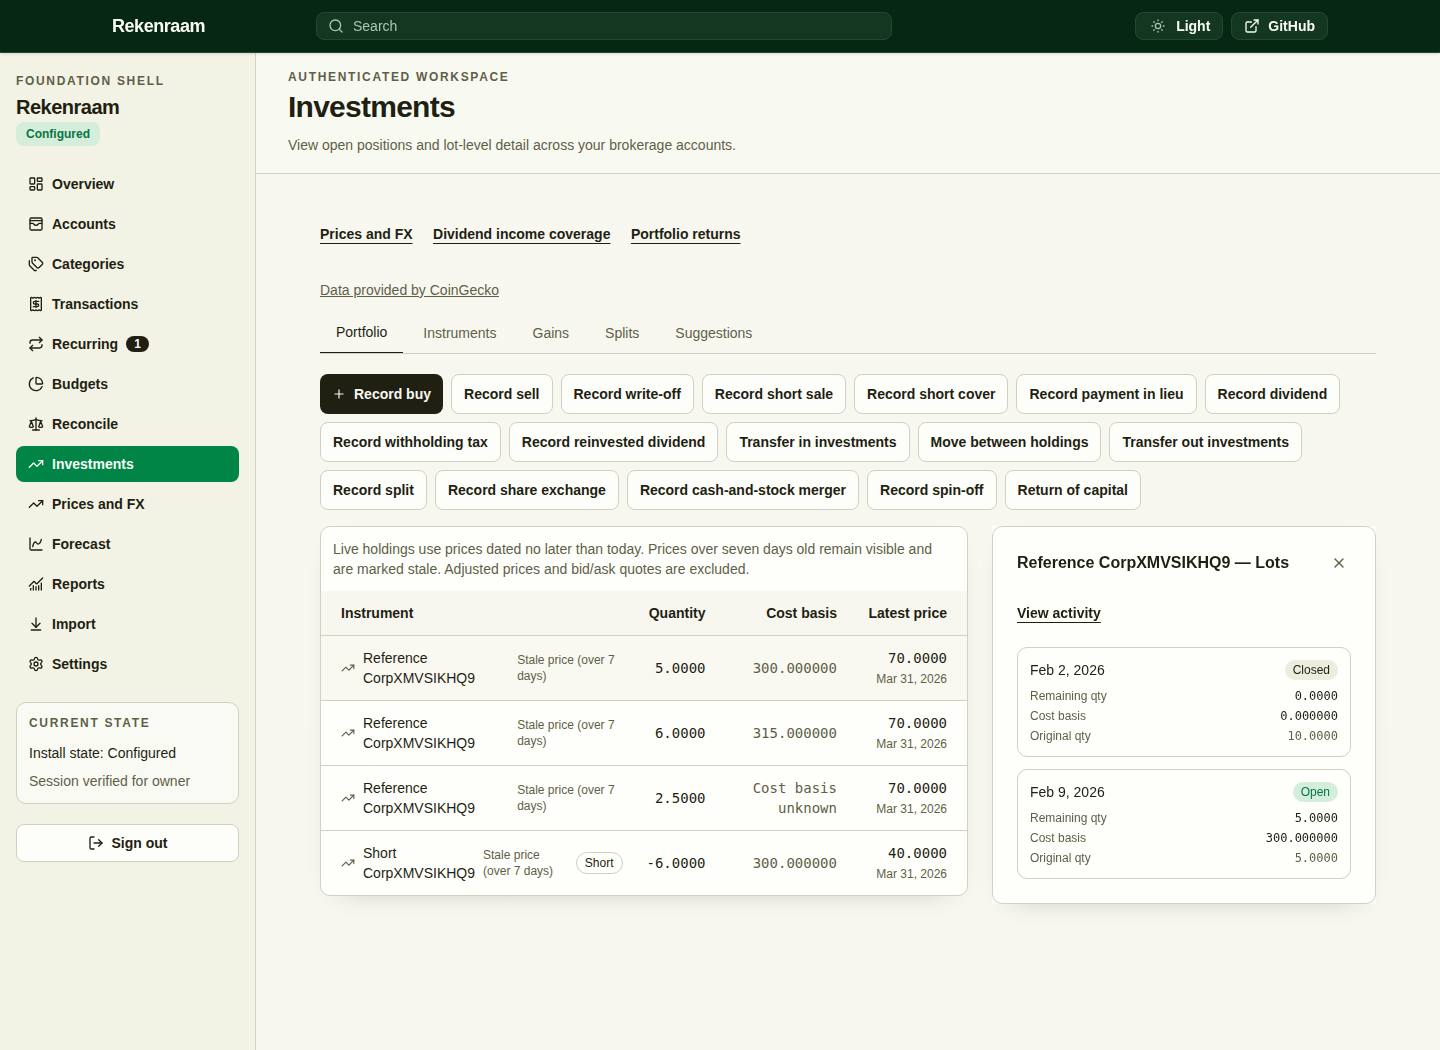
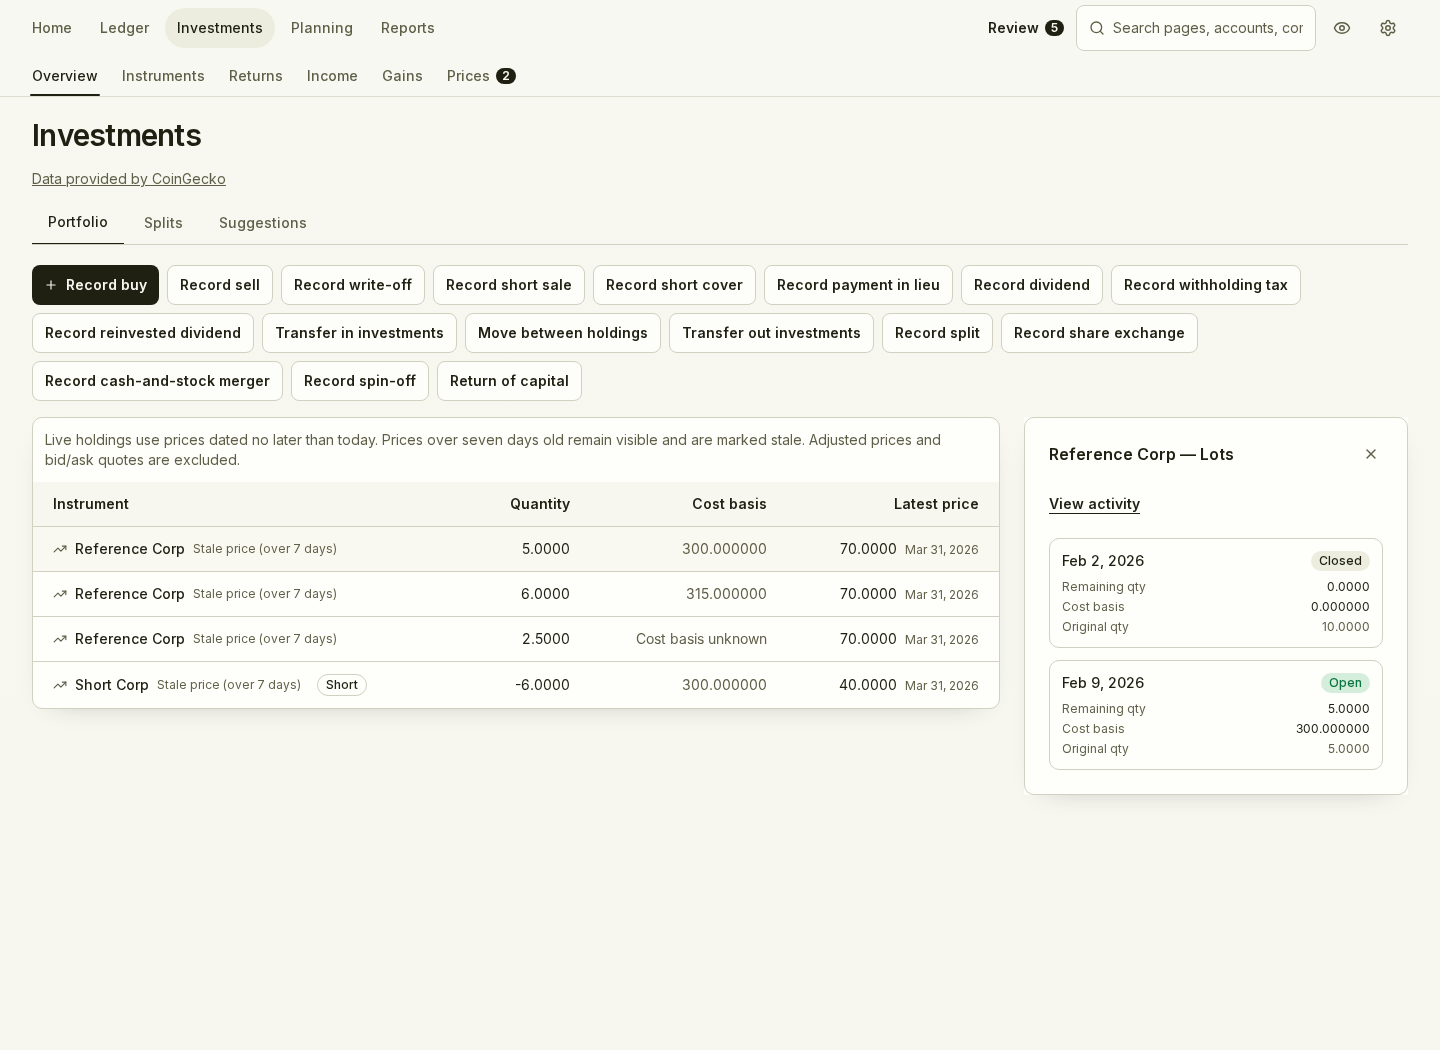
docs: refresh product screenshots
Recapture the spending report, transaction register and investment positions from the synthetic reference book so the README and website show the current navigation and layout. Extend the capture generator to write all three images, and keep disposable capture names free of the shared-run suffix.

diff --git a/e2e/website-screenshots.spec.ts b/e2e/website-screenshots.spec.ts
@@ -22,22 +22,41 @@ test('capture website screens from a disposable synthetic book', async ({ browse
     });
     try {
       const page = await context.newPage();
-      const seeded = await seedReferenceBook(page);
+      // A disposable book needs no collision suffix, so fixture names stay clean.
+      const seeded = await seedReferenceBook(page, '');
+      const reportRange = 'start_date=2026-01-01&end_date=2026-03-31';
       const captures = [
-        { route: `/app/transactions?account_id=${seeded.ids.get('checking')}`, name: 'transactions', heading: 'Transactions' },
-        { route: '/app/investments', name: 'investments', heading: 'Investments' }
+        {
+          route: `/app/reports/spending?${reportRange}&group_by=category`,
+          file: 'docs/images/reports-spending.png',
+          heading: 'Spending',
+          panel: 'Where money went'
+        },
+        {
+          route: `/app/transactions?account_id=${seeded.ids.get('checking')}`,
+          file: 'website/assets/transactions.png',
+          heading: 'Transactions'
+        },
+        {
+          route: '/app/investments',
+          file: 'website/assets/investments.png',
+          heading: 'Investments'
+        }
       ];
-      for (const { route, name, heading } of captures) {
+      for (const { route, file, heading, panel } of captures) {
         await page.goto(route);
         await expect(page.getByRole('heading', { name: heading, exact: true }).first()).toBeVisible();
+        if (panel) {
+          await expect(page.getByRole('heading', { name: panel, exact: true })).toBeVisible();
+        }
         await expect(page.getByRole('table').first().locator('tbody tr').first()).toBeVisible();
-        if (name === 'investments') {
+        if (file.endsWith('/investments.png')) {
           await page.getByRole('table').first().locator('tbody tr').first().click();
           await expect(page.getByRole('complementary', { name: 'Lot detail' })).toContainText('Cost basis');
         }
         await page.evaluate(() => document.fonts.ready);
         await page.screenshot({
-          path: join(repoRoot, 'website/assets', `${name}.png`),
+          path: join(repoRoot, file),
           animations: 'disabled'
         });
       }
@@ -47,7 +66,7 @@ test('capture website screens from a disposable synthetic book', async ({ browse
         fixture: 'fixtures/reference-book.json',
         language: 'en',
         viewport: { width: 1440, height: 1050 },
-        files: captures.map(({ name, route }) => ({ file: `${name}.png`, route })),
+        files: captures.map(({ file, route }) => ({ file, route })),
         note: 'Disposable database; synthetic reference book; no live providers or owner records.'
       }, null, 2) + '\n');
     } finally {

diff --git a/e2e/playwright/support/reference-book.ts b/e2e/playwright/support/reference-book.ts
@@ -102,12 +102,14 @@ async function call<T>(page: Page, method: string, path: string, body: unknown, 
 
 /**
  * Seeds the reference book into the signed-in browser's book. EUR and USD are
- * added when missing; system accounts come from the ledger setup.
+ * added when missing; system accounts come from the ledger setup. The shared
+ * e2e database needs a per-run suffix; a disposable capture book can pass `''`
+ * so its screenshots show the fixture's own names.
  */
-export async function seedReferenceBook(page: Page): Promise<SeededReferenceBook> {
+export async function seedReferenceBook(page: Page, runSuffix?: string): Promise<SeededReferenceBook> {
   const book = await loadReferenceBook();
   const { csrfToken } = await readyForLedger(page);
-  const suffix = `X${Date.now().toString(36).toUpperCase()}`;
+  const suffix = runSuffix ?? `X${Date.now().toString(36).toUpperCase()}`;
   const ids = new Map<string, number>();
   const transactions: SeededReferenceBook['transactions'] = { ordinary: [], investment: [] };
   ids.set('EUR', await ensureCurrency(page, csrfToken, 'EUR', 'Euro'));

diff --git a/docs/developer-workflow.md b/docs/developer-workflow.md
@@ -118,8 +118,8 @@ the other languages. Catalogs and all user-facing metadata live under
 `frontend/project.inlang/settings.json`; native-language review remains #102.
 All images/CSS/scripts are local. There are no analytics or external fonts.
 
-The README's spending screenshot is reused during the build. Refresh the
-other screenshots from the synthetic reference book with:
+Refresh the README and website screenshots from the synthetic reference book
+with:
 
 ```sh
 pnpm build
@@ -128,11 +128,11 @@ pnpm --dir e2e exec playwright test --config=website.config.ts
 
 This generator creates and removes a disposable database, refuses
 `E2E_BASE_URL`, redirects optional provider traffic to the test-only stub
-address, and captures the transaction register and investment lot details.
-It does not start a provider or read an existing installation. Images and
-capture provenance belong in `website/assets/`; only presentation assets go
-into the public build. Screenshots remain English with localized captions and
-alternative text.
+address, and captures the spending report, transaction register and investment
+lot details. The spending report is written to `docs/images/` and reused by the
+README and the website build; the other images and capture provenance belong in
+`website/assets/`. Only presentation assets go into the public build.
+Screenshots remain English with localized captions and alternative text.
 
 For a temporary project-path build instead of a custom domain:
 

diff --git a/website/README.md b/website/README.md
@@ -46,12 +46,14 @@ review/publish workflow are documented in
 ## Screenshot sources
 
 - The spending report is copied from `docs/images/reports-spending.png` during
-  build. It is the same fictional screenshot used by the repository README.
+  build. The same capture generator writes that file, so it is the same
+  fictional screenshot used by the repository README.
 - `assets/transactions.png` and `assets/investments.png` are captured from an
   app instance with a new disposable database, replaying
   `fixtures/reference-book.json` through public APIs. The capture uses no real
-  owner database, credentials or providers. Source revision and viewport are
-  recorded in `assets/capture.json`, which is not published.
+  owner database, credentials or providers. Source revision and viewport for
+  all three images are recorded in `assets/capture.json`, which is not
+  published.
 
 Refresh deliberately after building the current app binary:
 

diff --git a/README.md b/README.md
@@ -16,7 +16,7 @@ structures are still changing.
 
 *Rekenraam* is Dutch for abacus.
 
-![Spending report in Rekenraam, showing ten months of categorized expenses using sample data](docs/images/reports-spending.png)
+![Spending report in Rekenraam, showing categorized expenses and their share of spending in euros and US dollars](docs/images/reports-spending.png)
 
 ## What it does
 
